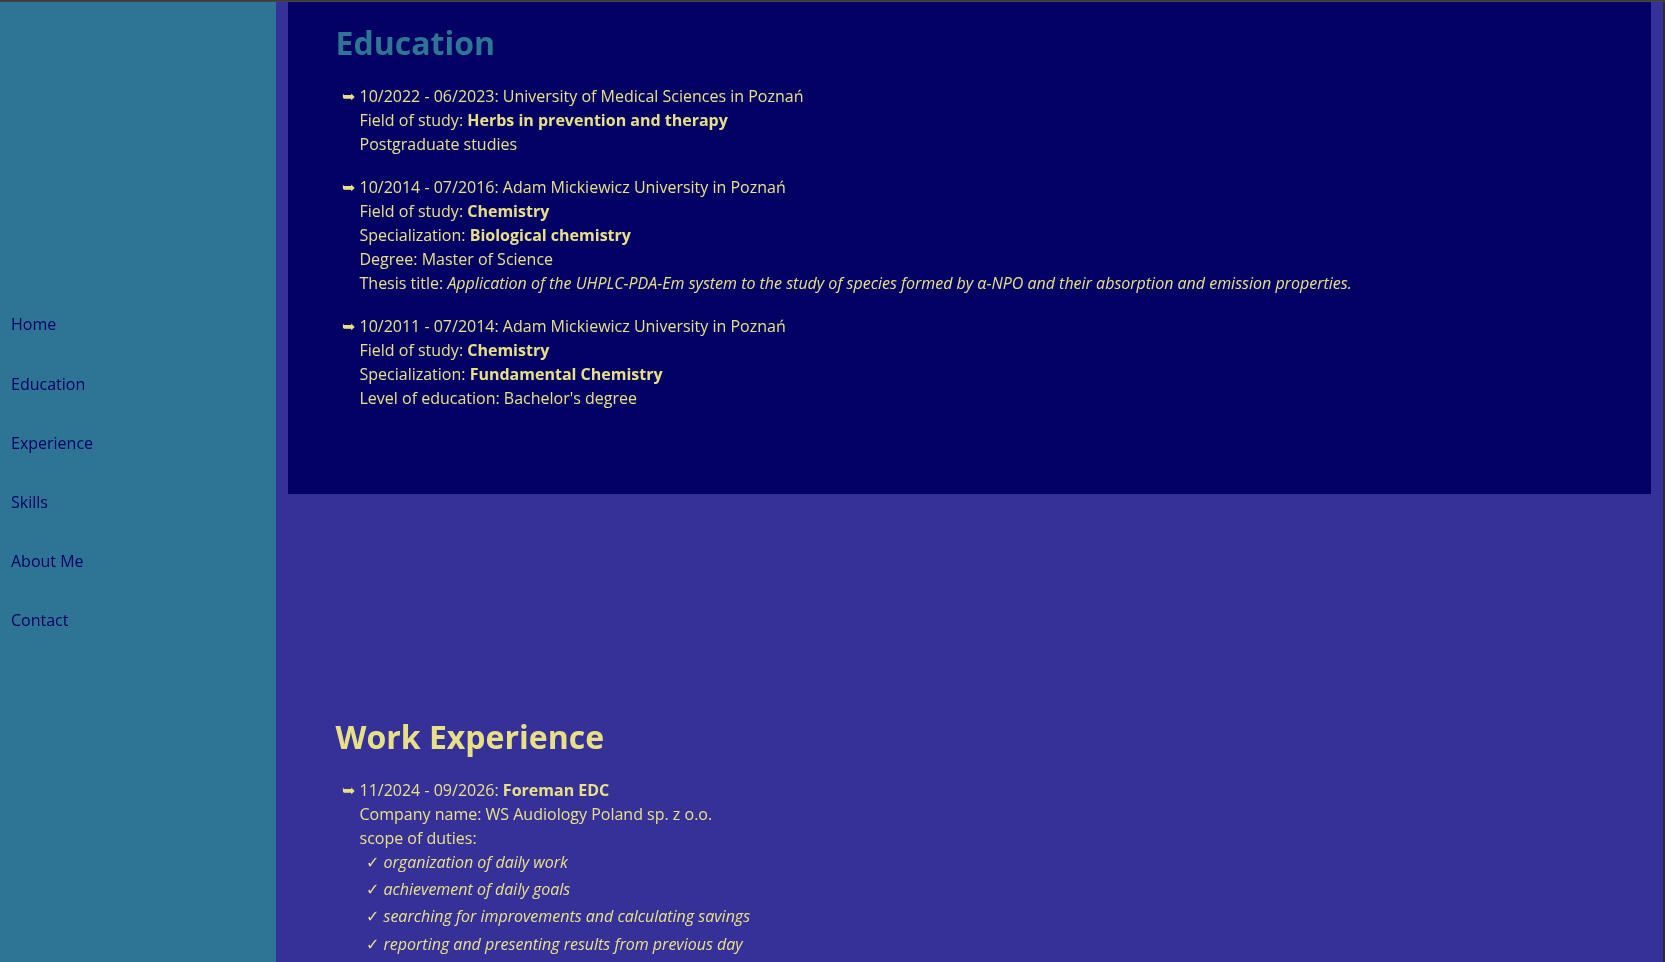
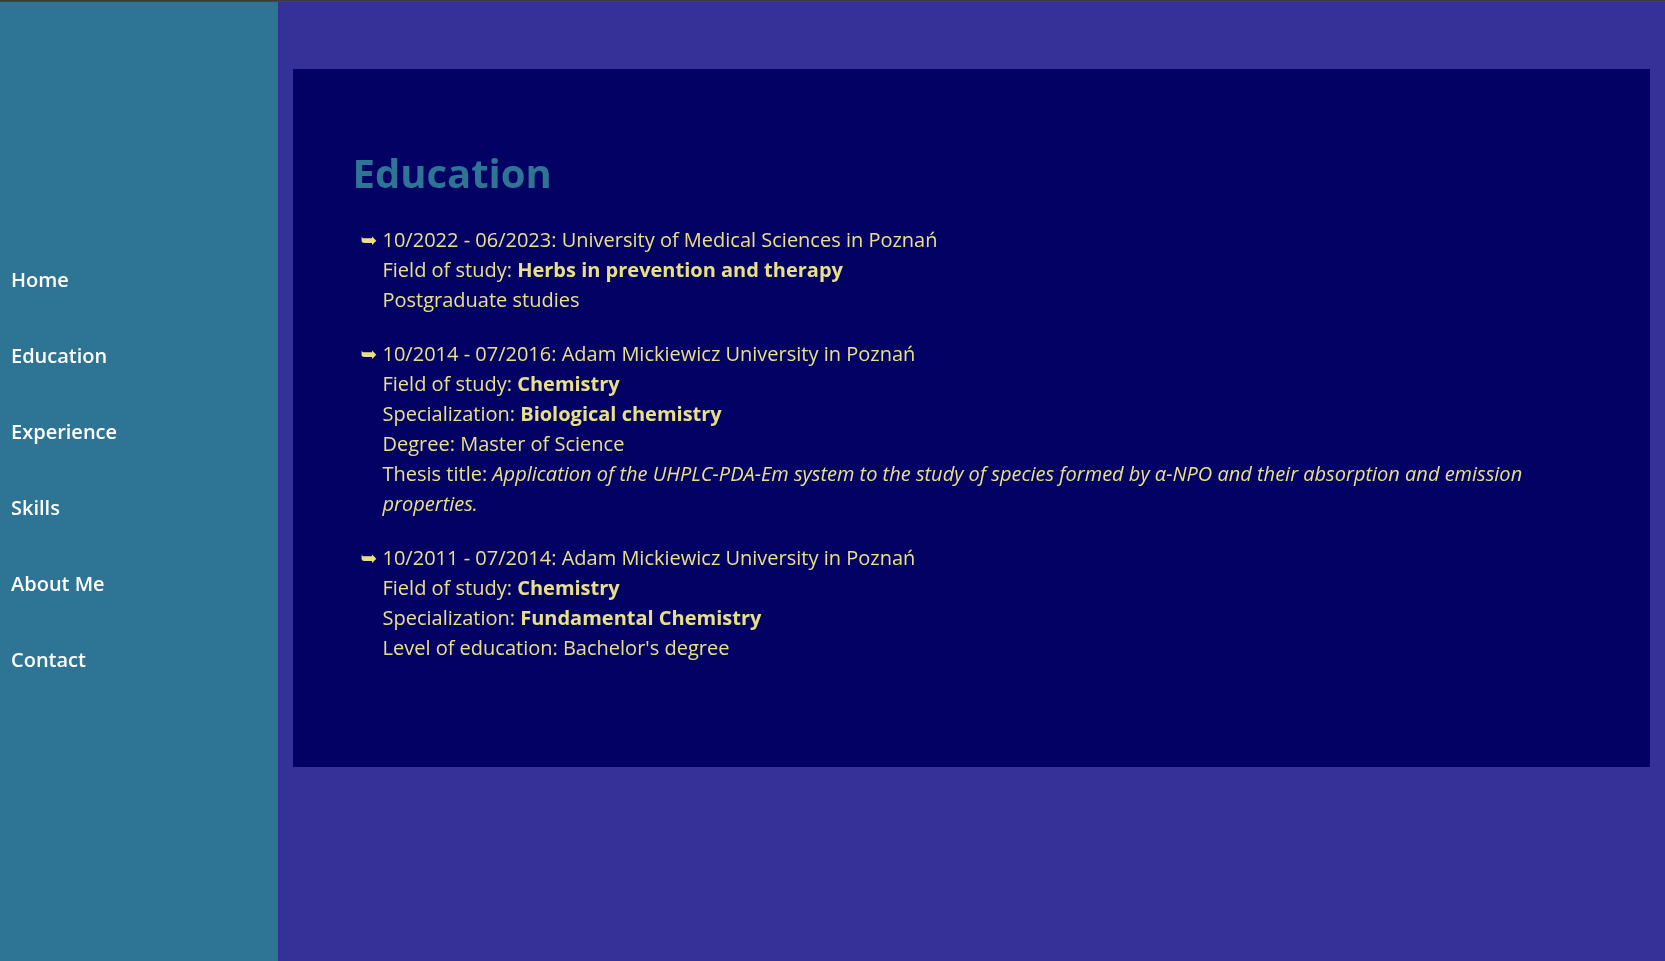
changed font color in navbar, changed size of navbar in mobile version

diff --git a/index.html b/index.html
@@ -3,6 +3,8 @@
 <head>
   <meta charset="UTF-8">
   <meta name="viewport" content="width=device-width, initial-scale=1.0">
+  <meta name="color-scheme" content="dark">
+
   <title>Łukasz Nowak personal site</title>
 
   <link rel="preconnect" href="https://fonts.googleapis.com">
@@ -10,8 +12,8 @@
   <link href="https://fonts.googleapis.com/css2?family=Open+Sans:ital,wght@0,300..800;1,300..800&display=swap" rel="stylesheet">
 
   <link rel="stylesheet" href="assets/fontello-fb96b91e/css/fontello.css" />
-  <link rel="stylesheet" href="styles.css" />
   <link href="https://cdn.jsdelivr.net/npm/bootstrap@6.0.0-alpha.1/dist/css/bootstrap.min.css" rel="stylesheet" integrity="sha384-B/GM4XqrwHnWXNOWMbloTmrYXZg10cakYGmpfsR/bbzQ6JAJI4ihuyADKLnBgrCe" crossorigin="anonymous">
+  <link rel="stylesheet" href="styles.css" />
 
 </head>
 
@@ -21,24 +23,32 @@
 
     <div class="row">
 
-      <div class="hero offset-3 md:offset-2 col-9 md:col-10 align-center d-grid lg:grid-cols-2 place-items-center gap-5">
+      <div class="hero md:offset-2 md:col-10 align-center d-grid lg:grid-cols-2 place-items-center gap-5">
 
         <header class="grid-cols-fill" id="home">
-          <h1 class="text-center mb-8">Welcome on my page! I'm <strong>Łukasz Nowak</strong></h1>
+          <h1 class="text-center mb-8">Welcome to my page! I'm <strong>Łukasz Nowak</strong></h1>
         </header>
 
-        <img class="img-fluid my-photo mb-5"  src="assets/myPhoto.jpeg" alt="" />
+        <img class="img-fluid my-photo mb-5"  src="assets/myPhoto.jpeg" alt="Portrait of Łukasz Nowak" />
 
-        <p class="hero-text p-5 lg:me-8"> I am the chemist, who gained the experience in logistic, then in team management. Over the last two years my profession was organization work in one logistic departament. During this time I improved a lot of things in our work. At this moment of my life I would like to try new challenges as developer. </p>
+        <p class="hero-text p-5 lg:me-8"> I am the chemist, who gained the experience in logistic, then in team management. Over the last two years my profession was organization work in one logistic deparatament. During this time I improved a lot of things in our work. At this moment of my life I would like to try new challenges as developer. </p>
 
       </div>
   
-      <nav class="navbar nav col-3 md:col-2 fixed-top">
+      <nav class="navbar md:navbar-expand col-2 fixed-top" >
 
-        <ul class="nav d-flex flex-column">
+        <button class="btn-icon navbar-toggler d-none" type="button" data-bs-toggle="drawer" data-bs-target="#navbarDrawer" aria-controls="navbarDrawer" aria-expanded="false" aria-label="Toggle navigation">
+         <span class="navbar-toggler-icon" aria-hidden="true"></span>
+       </button>
+
+       <dialog class="md:drawer drawer-start h-fit" tabindex="-1" id="navbarDrawer" aria-labelledby="navbarDrawerLabel">
+
+        <button type="button" class="btn-close d-none ms-auto" data-bs-dismiss="drawer" aria-label="Close"></button>
+
+        <ul class="navbar-nav d-flex flex-column" id="navigation">
 
           <li class="nav-item">
-            <a class="nav-link" href="#home" aria-label="Home"">Home</a>
+            <a class="nav-link" href="#home" aria-label="Home">Home</a>
           </li>
           <li class="nav-item">
             <a class="nav-link" href="#education-header" aria-label="Education">Education</a>
@@ -57,10 +67,12 @@
           </li>
 
         </ul>
+       
+       </dialog>
 
       </nav>
 
-      <main class="col-9 md:col-10 offset-3 md:offset-2">
+      <main class="md:col-10 md:offset-2">
 
         <article class="education">
 
@@ -96,10 +108,8 @@
               <ul>
                 <li><i>organization of daily work</i></li>
                 <li><i>achievement of daily goals</i></li>
-                <li><i>searching for improvements and calculating savings</i></li>
                 <li><i>reporting and presenting results from previous day</i></li>
                 <li><i>resolving current problems</i></li>
-                <li><i>scheduling employees' days off and accounting their working time</i></li>
               </ul>
             </li>
 
@@ -117,7 +127,7 @@
               <strong>Dealer Support Hotline Representative</strong>  <br />
               Company name: Orange Poland</li>
 
-            <li>08/2015 - 09/2015: <strong>Warehause Employee</strong> <br />
+            <li>08/2015 - 09/2015: <strong>Warehouse Employee</strong> <br />
             Company name: Amazon Fulfillment Poland sp. z o.o.</li>  
 
           </ul>
@@ -129,7 +139,7 @@
           <h2 id="skills-header">Skills</h2>
 
           <ul class="skills-list">
-            <li>Foreign Languagues: English intermediate</li>
+            <li>Foreign Languages: English intermediate</li>
             <li>Driving licence: Category B</li>
             <li>Knowledge of laboratory techniques</li>
             <li>Proficiency in using Windows-based software, particularly the Microsoft Office suite</li>
@@ -160,30 +170,30 @@
 
             <div class="col-12 md:col-6">
               <figure>
-              <img src="./assets/mountains.jpg" class="img-fluid img-thumbnail" alt="the photo from mountain" />
+                <img src="./assets/mountains.jpg" class="img-fluid img-thumbnail" alt="the photo from mountain" />
+                <figcaption>Trekking in mountains</figcaption>
               </figure>
-              <figcaption>Trekking in mountains</figcaption>
             </div>
 
             <div class="col-12 md:col-6">
               <figure>
-              <img src="assets/aqua.jpg" class="img-fluid img-thumbnail" alt="small aquarium with green plants" /> 
+                <img src="assets/aqua.jpg" class="img-fluid img-thumbnail" alt="small aquarium with green plants" /> 
+                <figcaption>Aquaristics</figcaption>
               </figure>
-              <figcaption>Aquaristics</figcaption>
             </div>
 
             <div class="col-12 md:col-6">
               <figure>
-              <img src="assets/snowboard.jpg" class="img-fluid img-thumbnail" alt="Me on snowboard" />
+                <img src="assets/snowboard.jpg" class="img-fluid img-thumbnail" alt="Me on snowboard" />
+                <figcaption>Snowboarding and skiing </figcaption>
               </figure>
-              <figcaption>Snowboarding and skiing </figcaption>
             </div>
 
             <div class="col-12 md:col-6">
               <figure>
-              <img src="assets/moon.jpg" class="img-fluid img-thumbnail" alt="The moon photo made with telescope help" /> 
+                <img src="assets/moon.jpg" class="img-fluid img-thumbnail" alt="The moon photo made with telescope help" /> 
+                <figcaption>Astronomy</figcaption>
               </figure>
-              <figcaption>Astronomy</figcaption>
             </div>
 
           </div>
@@ -196,23 +206,25 @@
         
         <div class="data">
 
-          <h3 id="contact-header">Contact with me:</h3>
+          <h3 id="contact-header">Contact me:</h3>
 
-          <p>
-            adress: ul. Bursztynowa 4, 62-200 Gniezno<br />
-            phone number: +48 663 356 626 <br />
-            <i class=" icon-mail"></i> adress: lukasz.nowak.programista@gmail.com <br />
-          </p>
+          <adress>
+            city: Gniezno<br />
+            phone number: <a href="tel:+48663356626">+48 663 356 626 </a><br />
+            <i class=" icon-mail"></i> address: <a href="mailto:lukasz.nowak.programista@gmail.com">lukasz.nowak.programista@gmail.com</a> <br />
+          </adress>
 
         </div>
 
-        <div class="linkedin"><a href="https://www.linkedin.com/in/%C5%82ukasz-nowak-06ba142a3/?isSelfProfile=true" target="_blank""><i class="icon-linkedin-squared" aria-label="linkedin"></i></a></div>
+        <div class="linkedin"><a href="https://www.linkedin.com/in/%C5%82ukasz-nowak-06ba142a3/?isSelfProfile=true" target="_blank"><i class="icon-linkedin-squared" aria-label="linkedin"></i></a></div>
 
       </footer>
 
     </div>
 
   </div>
+
+  <script type="module" src="https://cdn.jsdelivr.net/npm/bootstrap@6.0.0-alpha.1/dist/js/bootstrap.bundle.min.js" integrity="sha384-1a/pXj49ZQ1aHEmrJ+gMw1otqoVsYwlEnlD8mIfY2TV03r20Y0CN7uqx1tQogjPL" crossorigin="anonymous"></script>
 
 </body>
 </html>

diff --git a/styles.css b/styles.css
@@ -1,4 +1,5 @@
 :root {
+  color-scheme: dark; 
   --primary: #030164;
   --secondary: #363199;
   --accent: #2D7495;
@@ -27,9 +28,13 @@ li ul li {
   padding-bottom: 0.2rem;
 }
 
+a {
+  text-decoration: none;
+}
+
 body {
   background-color: var(--secondary);
-  font-size: 100%;
+  font-size: 1rem;
   line-height: 1.5;
   color: var(--text);
   font-family: "Open Sans", sans-serif;
@@ -47,9 +52,8 @@ body {
 }
 
 h1 {
-  font-size: 3rem;
+  font-size: clamp(2rem, 1.2rem + 4vw, 3rem);
 }
-
 
 h2 {
   font-weight: 700;
@@ -66,7 +70,6 @@ h2 {
 }
 
 .hero-text {
-  max-width: 40ch;
   text-align: justify;
   font-size: 1.5rem;
 }
@@ -77,12 +80,17 @@ nav {
 }
 
 .nav-link {
-  color: var(--primary);
+  color: #fff;
+  font-weight: 600; 
 }
 
 .nav-link.active, .nav-link:hover, .nav-link:focus-visible {
   background-color: var(--primary); 
   color: var(--text);
+}
+
+.btn-icon:hover {
+  background-color: var(--secondary);     
 }
 
 article, aside {
@@ -139,28 +147,52 @@ footer h3 {
   color: var(--accent);
 }
 
+.data a {
+  color: var(--accent);
+  font-weight: 600;
+}
+
+.data a:hover {
+  color: var(--text);
+}
+
 a:focus-visible {
   outline: 3px solid var(--text);
   outline-offset: 3px;
 }
 
-@media (max-width: 36rem) {
+@media (max-width: 47.9375rem) {
 
   body {
-    font-size: 0.7rem;
+    font-size: 0.9rem;
+  }
+
+  h1 {
+    margin-top: 3rem;
+  }
+
+  .hero-text {
+    font-size: inherit;
+  }
+
+  .btn-icon, .btn-close {
+    display: flex;
+  }
+
+  nav {
+    height: fit-content;
+    justify-content: center;
+    box-shadow:  1px 1px 10px 0px var(--primary);
+    border-radius: 0 0 15% 0;
+  }
+
+  dialog {
+    background-color: var(--accent);
   }
 
   .hero {
     margin-top: 2rem;
     margin-bottom: 1rem;
-  }
-
-  h1 {
-    font-size: 2rem;
-  }
-
-  .hero-text {
-    font-size: 0.8rem;
   }
 
   .my-photo {
@@ -170,6 +202,10 @@ a:focus-visible {
   article, aside {
     margin: 5rem 0;
     padding: 1rem;
+  }
+
+  .about-me h2 ~ * {
+    padding-right: 0;
   }
 
   footer p {
